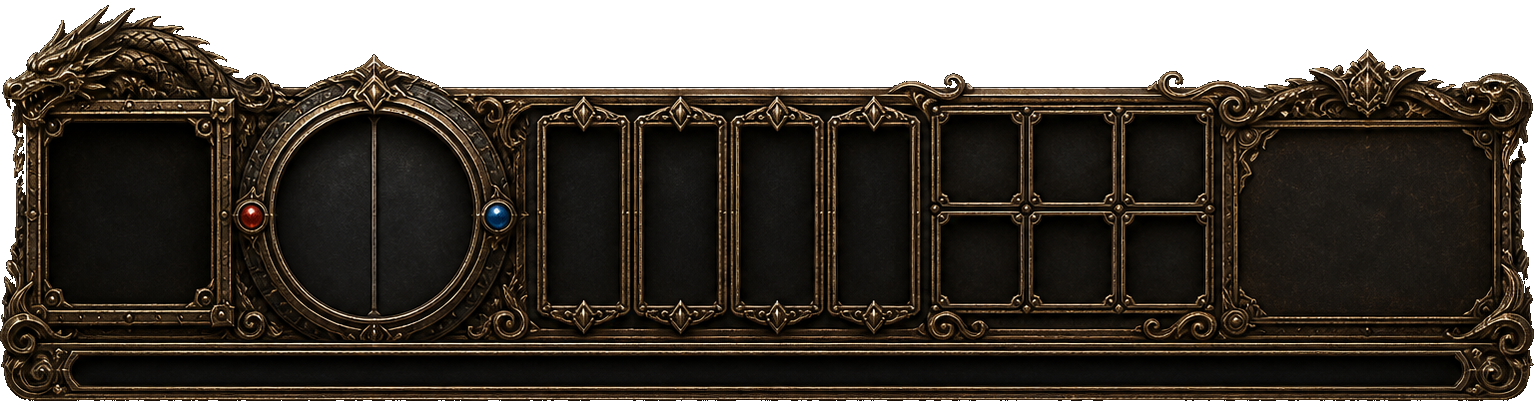
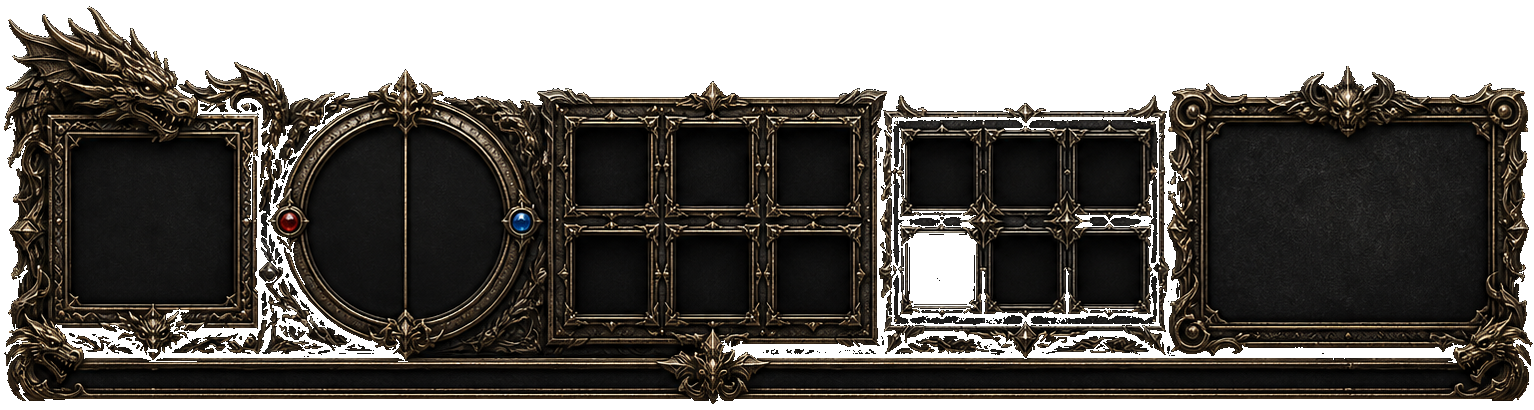
feat: 底栏中间改为 2x3 六技能格
整张重出框架：技能区由四竖槽改为紧凑 2 行 3 列六格；
接线普攻+四职业技能+预留空槽，物品区仍为 2x3。

diff --git a/css/style.css b/css/style.css
@@ -242,8 +242,8 @@ kbd { border: 1px solid #5c4b35; background: #110e0b; color: #d5c4a5; border-rad
   position: absolute; z-index: 5;
   left: 0; right: 0; bottom: 0;
   width: 100%;
-  /* 与 bottom_frame.png 固有比例 1534:407 一致 */
-  aspect-ratio: 1534 / 407;
+  /* 与 bottom_frame.png 固有比例 1534:410 一致 */
+  aspect-ratio: 1534 / 410;
   height: auto;
   padding: 0; border: 0; background: transparent; box-shadow: none;
   display: block; transform: none;
@@ -344,9 +344,9 @@ kbd { border: 1px solid #5c4b35; background: #110e0b; color: #d5c4a5; border-rad
 }
 .mir-belt {
   position: absolute;
-  left: 54.5%; top: 18%; width: 16%; height: 52%;
+  left: 50.5%; top: 18%; width: 16.5%; height: 52%;
   display: grid; grid-template-columns: repeat(3, 1fr); grid-template-rows: repeat(2, 1fr);
-  gap: 2%;
+  gap: 3%;
   padding: 0;
   pointer-events: auto; z-index: 2;
 }
@@ -399,42 +399,48 @@ kbd { border: 1px solid #5c4b35; background: #110e0b; color: #d5c4a5; border-rad
 .mir-sys button:hover { filter: brightness(1.18); border-color: #c8994d; }
 .mir-skills {
   position: absolute;
-  left: 32.5%; top: 20%; width: 20%; height: 48%;
+  left: 32.0%; top: 18%; width: 16.5%; height: 52%;
   display: grid;
-  grid-template-columns: repeat(4, 1fr);
-  gap: 2%;
+  grid-template-columns: repeat(3, 1fr);
+  grid-template-rows: repeat(2, 1fr);
+  gap: 3%;
   pointer-events: auto; z-index: 3;
 }
 .mir-skills button {
   width: 100%; height: 100%; border: 0; background: transparent;
-  color: #f2eadc; cursor: pointer; position: relative; padding: 4px 1px 2px; font-size: 7px; line-height: 1.1;
+  color: #f2eadc; cursor: pointer; position: relative; padding: 3px 1px 2px; font-size: 7px; line-height: 1.1;
   overflow: hidden; isolation: isolate; text-shadow: 0 1px 3px #000;
 }
 .mir-skills button .skill-icon {
-  position: absolute; z-index: -2; inset: 3px; background: var(--skill-icon) center / cover no-repeat;
+  position: absolute; z-index: -2; inset: 4px; background: var(--skill-icon) center / cover no-repeat;
   filter: saturate(.94) contrast(1.06);
 }
 .mir-skills button::before {
-  content: ""; position: absolute; z-index: -1; inset: 3px; pointer-events: none;
+  content: ""; position: absolute; z-index: -1; inset: 4px; pointer-events: none;
   background: linear-gradient(180deg, rgba(3,2,2,.04) 35%, rgba(3,2,2,.88) 94%);
 }
-.mir-skills button .k { position: absolute; left: 3px; top: 1px; color: var(--gold-2); font-size: 8px; font-weight: 800; }
+.mir-skills button .k { position: absolute; left: 3px; top: 2px; color: var(--gold-2); font-size: 8px; font-weight: 800; }
 .mir-skills button .skill-name { position: absolute; left: 2px; right: 2px; bottom: 2px; white-space: nowrap; font-weight: 700; font-size: 7px; overflow: hidden; text-overflow: ellipsis; }
 .mir-skills button .mana { position: absolute; right: 2px; top: 12px; padding: 0 2px; background: rgba(5,20,37,.68); color: #89c4f4; font-size: 7px; }
-.mir-skills button .skill-level { position: absolute; right: 2px; top: 1px; color: #f0cf8b; font-size: 7px; }
-.mir-skills button.basic-attack { display: none; } /* 普通攻击走空格，不占四技能槽 */
+.mir-skills button .skill-level { position: absolute; right: 2px; top: 2px; color: #f0cf8b; font-size: 7px; }
+.mir-skills button.basic-attack .skill-icon {
+  background: radial-gradient(circle at 48% 42%, rgba(218,174,90,.46), rgba(91,52,20,.82) 45%, #130e0a 74%);
+}
 .mir-skills button .skill-glyph {
-  position: absolute; z-index: 0; inset: 7px 0 auto; color: #ffe1a0; font-size: 18px; filter: drop-shadow(0 2px 3px #000);
+  position: absolute; z-index: 0; inset: 18% 0 auto; color: #ffe1a0; font-size: clamp(12px, 1.2vw, 18px); filter: drop-shadow(0 2px 3px #000);
 }
 .mir-skills button .cd {
   position: absolute; inset: 0; z-index: 2; background: rgba(5,4,3,.78);
-  display: flex; align-items: center; justify-content: center; font: bold 13px Georgia, serif; color: #eee;
+  display: flex; align-items: center; justify-content: center; font: bold 12px Georgia, serif; color: #eee;
 }
 .mir-skills button.ready { filter: brightness(1.08); }
 .mir-skills button.locked { filter: grayscale(.85); color: #777067; }
 .mir-skills button.locked::before {
   content: "未学"; position: absolute; z-index: 2; inset: 35% 2px auto;
   padding: 2px 0; background: rgba(8,7,6,.86); color: #b09270; font-size: 8px; text-align: center;
+}
+.mir-skills button.skill-empty {
+  cursor: default; pointer-events: none; opacity: 0;
 }
 /* 角色名/战力/金币不再浮在场景上的半透明黑条；数据仍由 JS 写入供其他面板复用 */
 .mir-meta {
@@ -468,7 +474,7 @@ kbd { border: 1px solid #5c4b35; background: #110e0b; color: #d5c4a5; border-rad
 .quick-item b { position: absolute; right: 2px; bottom: 1px; min-width: 14px; padding: 1px 2px; background: rgba(0,0,0,.72); font-size: 8px; }
 
 /* windows */
-.bag { left: 12px; bottom: calc(100vw * 407 / 1534 + 12px); }
+.bag { left: 12px; bottom: calc(100vw * 410 / 1534 + 12px); }
 .equip-row { display: grid; grid-template-columns: repeat(4, 1fr); gap: 5px; margin-bottom: 8px; }
 .equip-slot, .bag-slot {
   min-height: 58px; border: 1px solid #3f372d; background: #0e0c0a; display: flex; flex-direction: column;
@@ -961,7 +967,7 @@ button:focus-visible, input:focus-visible, select:focus-visible {
 @media (max-width: 900px) {
   .class-card { min-height: 380px; }
   .class-card .art { height: 275px; }
-  .mir-hud { width: 100%; aspect-ratio: 1534 / 407; height: auto; }
+  .mir-hud { width: 100%; aspect-ratio: 1534 / 410; height: auto; }
   .mir-skills button { width: 40px; height: 40px; }
   .mir-meta { font-size: 0; }
 }
@@ -990,7 +996,7 @@ button:focus-visible, input:focus-visible, select:focus-visible {
   .boss-hud { top: 50px; width: min(360px, 78vw); }
   .mir-hud {
     left: 0; right: 0; width: 100%; transform: none;
-    bottom: 0; aspect-ratio: 1534 / 407; height: auto;
+    bottom: 0; aspect-ratio: 1534 / 410; height: auto;
     padding: 0; min-height: 0;
     display: block !important;
   }
@@ -1103,7 +1109,7 @@ button:focus-visible, input:focus-visible, select:focus-visible {
   }
   .bottom-hud.mir-hud {
     left: 0; right: 0; bottom: 0; width: 100%;
-    aspect-ratio: 1534 / 275; height: auto; min-height: 0; padding: 0;
+    aspect-ratio: 1534 / 410; height: auto; min-height: 0; padding: 0;
     display: block !important;
   }
   .portrait-box { width: 38px; height: 48px; }

diff --git a/js/main.js b/js/main.js
@@ -738,10 +738,11 @@ function useSkill(index) {
 function buildSkills() {
   const bar = $('#skill-bar');
   bar.innerHTML = '';
+  // 底栏 2×3 六槽：普通攻击 + 职业四技能 + 1 预留空槽
   const basic = document.createElement('button');
   basic.type = 'button';
   basic.className = 'basic-attack ready';
-  basic.innerHTML = '<span class="skill-icon" aria-hidden="true"></span><span class="skill-glyph" aria-hidden="true">⚔</span><span class="k">空格</span><span class="skill-name">普通攻击</span><span class="skill-level">Lv.1</span>';
+  basic.innerHTML = '<span class="skill-icon" aria-hidden="true"></span><span class="skill-glyph" aria-hidden="true">⚔</span><span class="k">空格</span><span class="skill-name">普攻</span><span class="skill-level">Lv.1</span>';
   basic.title = '普通攻击从1级即可使用，不需要技能书';
   basic.setAttribute('aria-label', '空格 普通攻击，1级可用');
   basic.onpointerdown = (event) => {
@@ -770,6 +771,14 @@ function buildSkills() {
       mobileButton.innerHTML = `<span class="mobile-skill-key">${skill.key}</span><span class="mobile-cd"></span>`;
     }
   });
+  while (bar.children.length < 6) {
+    const empty = document.createElement('button');
+    empty.type = 'button';
+    empty.className = 'skill-empty';
+    empty.disabled = true;
+    empty.setAttribute('aria-hidden', 'true');
+    bar.appendChild(empty);
+  }
 }
 
 function skillBookFor(skillId, classId = game?.player.classId) {

diff --git a/index.html b/index.html
@@ -106,7 +106,7 @@
         </aside>
 
         <div class="bottom-hud mir-hud hit" id="mir-hud">
-          <img class="mir-hud-frame" src="assets/game/ui/hud/bottom_frame.png?v=0.9.32" alt="" draggable="false" />
+          <img class="mir-hud-frame" src="assets/game/ui/hud/bottom_frame.png?v=0.9.33" alt="" draggable="false" />
 
           <button id="btn-character" class="mir-face" aria-label="角色信息">
             <img id="hud-portrait" alt="" />
